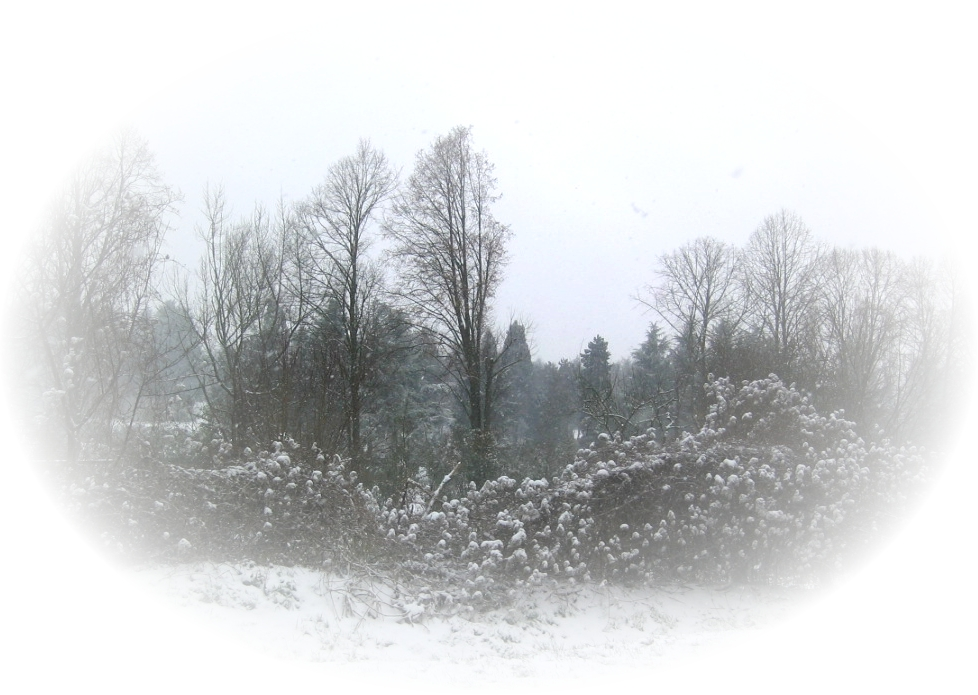
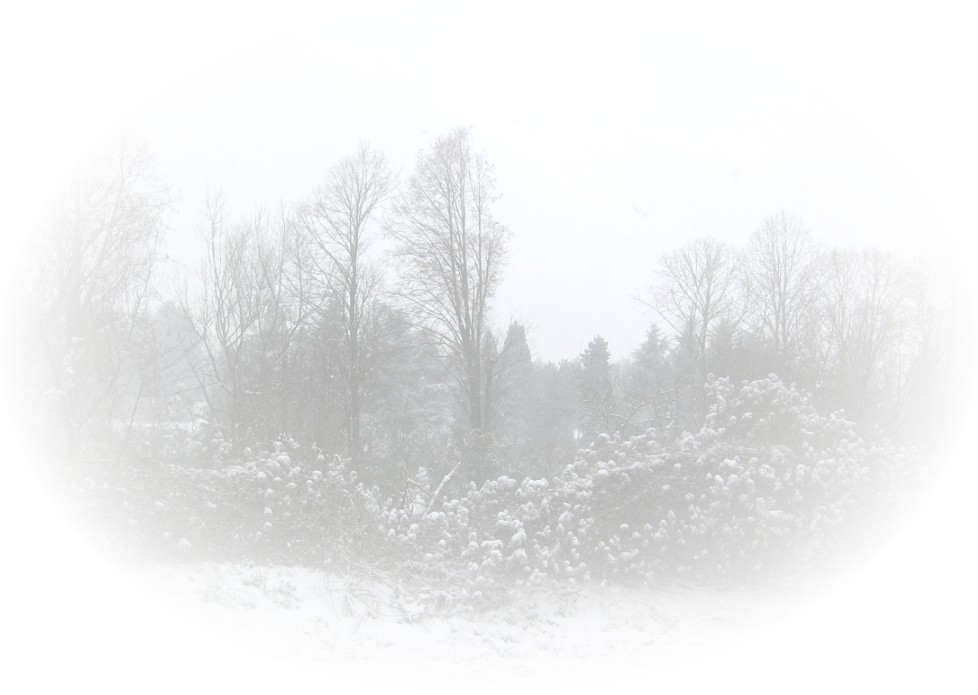
2 files committed to main

diff --git a/foresmar.html b/foresmar.html
@@ -1,9 +1,8 @@
 <html>
-<head>
-<meta charset="utf-8"/><title>Forêt smaragdine</title><meta content="86400" http-equiv="expires"/>
-<meta content="Christian Souchon" name="author"/>
-<meta content="Texte du poème 'Forêt smaragdine'" name="description"/>
-<meta content="Forêt smaragdine, Emerald Forest, Michel Galiana, Michel Souchon, Christian Souchon, poésie, poème, poetry, poem, English translation " name="keywords"/>
+<head><title>Forêt smaragdine</title><meta http-equiv="expires" content="86400">
+<META Name="author" content="Christian Souchon">
+<META Name="description" content="Texte du poème 'Forêt smaragdine'">
+<META Name="keywords" content="Forêt smaragdine, Emerald Forest, Michel Galiana, Michel Souchon, Christian Souchon, poésie, poème, poetry, poem, English translation ">
 <style>
 <!--
  /* Style Definitions */
@@ -24,15 +23,16 @@ a:visited, span.MsoHyperlinkFollowed
 div.Section1
 	{page:Section1;}
 -->
-</style><link href="https://chrsouchon.fr/logo/goelan.jpg" rel="icon" type="image/x-icon"/></head>
-<body bgcolor="greenyellow" text="black">
+</style></head>
+
+<body bgcolor="greenyellow"  text=black>
 <p><center>
 <font color="black" face="arial">
-<img src="boisviro.jpg"/><p>
-<table cellpadding="4">
+<img src="boisviro.jpg"><p>
+<Table cellpadding=4>
 <tr>
-<td valign="top" width="50%"><pre>
-<p class="MsoNormal"><b><span style="font-family:Arial;color:black">
+<td width=50% valign=top><pre>
+<p class=MsoNormal><b><span style='font-family:Arial;color:black'>
 II FORET SMARAGDINE
 
 D'une gemme hanté regagner mon repos,
@@ -55,14 +55,14 @@ D'une grêle de dards les sommeils déloyaux.
 
 27 janvier 1990
 
-</span></b></p></pre>
+</pre></b>
 Copyright Michel Galiana  01.04.2006 (c) (r) All rights reserved
-</td>
-<td valign="top" width="50%"><pre>
-<p class="MsoNormal"><b><span style="font-family:Arial;color:black">
+</p></td>
+<td width=50% valign=top><pre>
+<p class=MsoNormal><b><span style='font-family:Arial;color:black'>
 II EMERALD FOREST
 
-It is haunted by gem, that I return to rest!
+It's haunted by a gem, that I return to rest!
 In it the winds calm down and the sources suspend
 The space and the movement whose runs are made to end
 In an illusive field flagged with tatters at best.
@@ -78,31 +78,231 @@ Replete with sparkling stones and gleams, where will arise
  
 Where dawn would set ablaze pyres of silence so staunch,
 That only song pervades the trench from where they launch,  
-In hails of shafts, slumbers full of disloyalty.
+In heavy hails of shafts, sleeps full of treachery.
 
 January 27th 1990
 
-</span></b></p></pre>
-Transl. Christian Souchon  01.04.2006 (c) (r) All rights reserved
-</td></font></center></p></tr></table></p>
+</pre></b>
+Transl. Christian Souchon  01.04.2006 - 2026 (c) (r) All rights reserved
+</p></td></tr>
+</table>
 <p>
-<i>
+</center><i>
 Note :<p>
-<table cellpadding="4">
+<Table cellpadding=4>
 <tr>
-<td valign="top" width="50%"><i>
-Encore une tentative de décrire l'indescriptible, le passage de l'état éveillé au sommeil: un kaléidoscope où domine le vert apparaît sous les paupières fermées. Des bribes de souvenirs et d'impressions flottent dans la pensée qui s'engourdit. Seule la musique surnage encore un moment dans la conscience du mélomane qui s'endort.
-</i></td>
-<td valign="top" width="50%"><i>
-Another attempt to describe the indescribable: the transition from the waking state to sleep. A kaleidoscope dominated by green appears under closed eyelids. Fragments of memories and impressions float in the numbing thought. Only music remains for a moment in the consciousness of the music lover who falls asleep
-</i></td></tr></table><p>
+<td width=50% valign=top><i>
+Encore une tentative de description de l'indescriptible, le passage de l'état éveillé au sommeil: un kaléidoscope où domine le vert apparaît sous les paupières fermées. Des bribes de souvenirs et d'impressions flottent dans la pensée qui s'engourdit. Seule la musique surnage encore un moment dans la conscience du mélomane qui s'endort.<br>
+L'IA, interrogée en 2026, estime cette interprétation trop restrictive. Dpnnons-lui la parole.
+
+</td>
+<td width=50% valign=top><i>
+Another attempt to describe the indescribable: the transition from the waking state to sleep. A kaleidoscope dominated by green appears under closed eyelids. Fragments of memories and impressions float in the numbing thought. Only music remains for a moment in the consciousness of the music lover who falls asleep.<br>
+When asked in 2026, the AI considers this interpretation too restrictive. Let us hear what it has to say.
+</td></tr></table><p>
 <center>
+<font color="maroon">
+<b>Commentaires générés par IA en 2026<br> 
+Comments generated by AI in 2026</b><br>
+<br>
+
+<Table cellpadding=4>
+<tr>
+<td width=50% valign=top>
+<span style='font-family:Arial;color:maroon'>
+Votre lecture — ce kaléidoscope sous les paupières closes — suit déjà la bonne direction. Mais Michel va plus loin : il décrit la <b>géographie métaphysique de l’endormissement</b>, le « pays vert sous la peau », le « monde étoilé » soutenu par une « puissance inerte », cette immobilité précieuse que l’aube embraserait si le chant n’intervenait pas.<br>
+<br>
+Permettez-moi de retracer les mouvements du poème.<br>
+<br>
+<b>1. La gemme hantant le repos — la première étincelle hypnagogique</b><br>
+<i>D’une gemme hanté regagner mon repos…</i><br>
+La « gemme » est la première lumière intérieure perçue lorsque les yeux se ferment — mais c’est aussi le cœur de la conscience, le germe du rêve.<br>
+Elle est à la fois :<br>
+•	un phosphène au sens littéral,<br>
+•	et un joyau métaphysique.<br>
+C’est l’instant du seuil : l’esprit commence à se détacher.<br>
+<br>
+<b>2. Les vents se suspendent, les sources se musellent — le monde extérieur s’éteint</b><br>
+<i>Où suspendent les vents et musèlent les sources<br>
+L'espace et le courant dont achève les courses</i><br>
+Michel décrit l’effacement progressif des perceptions sensorielles :<br>
+•	les vents s’arrêtent,<br>
+•	les sources sont muselées,<br>
+•	l’espace et le mouvement sont suspendus.<br>
+Ce n’est pas encore le sommeil — c’est l’extinction du monde de l’éveil.<br>
+Votre idée de <i>« pensée qui engourdit »</i> correspond exactement à cela.<br>
+<br>
+<b>3. L’illusion d’un champ drapé de lambeaux — fragments de mémoire</b><br>
+<i>L’illusion d’un champ pavoisé d’oripeaux.</i><br>
+C’est le kaléidoscope de la mémoire, mais Michel le perçoit comme :<br>
+•	un champ,<br>
+•	orné de lambeaux,<br>
+•	une illusion.<br>
+Ce sont les bribes de la conscience, les derniers vestiges de la pensée à l’état de veille.<br>
+Votre interprétation — « des fragments de souvenirs et d’impressions flottent » — est ici parfaite.<br>
+<br>
+<b>4. Le pays vert sous la peau — la forêt intérieure</b><br>
+<i>Rejoins le pays vert qui règne sous les peaux.</i><br>
+<b>C’est le cœur du poème.</b><br>
+La « forêt d’émeraude » ne se trouve pas à l’extérieur. C’est l’inconscient végétal, la nuit biologique profonde.<br>
+Le vert est :<br>
+•	la couleur du rêve,<br>
+•	la couleur de l’intérieur du corps,<br>
+•	la couleur du monde minéral qu’imagine Michel.<br>
+C’est ici que votre « kaléidoscope » se transforme en « paysage ».<br>
+<br>
+<b>5. Le monde étoilé qu’étreint une puissance inerte — l’immobilité cosmique du sommeil</b><br>
+<i>Monde stellé qu’étreint une inerte puissance…</i><br>
+Le sommeil n’est pas l’obscurité ; c’est une immobilité étoilée.<br>
+Michel perçoit l’esprit endormi comme :<br>
+•	une constellation,<br>
+•	maintenu par une puissance inerte (non pas morte, mais immobile),<br>
+•	un éclat semblable à celui d’un joyau.<br>
+C’est la <b>dimension cosmique du sommeil</b>.<br>
+Votre lecture n’effleure que brièvement cet aspect ; Michel, lui, le place au <b>centre</b>.<br>
+<br>
+<b>6. L’aube allumant des brasiers de silence — la menace du réveil</b><br>
+<i>Où l’aube allumerait des brasiers de silence…<br>
+L’aube n’est pas lumière ; c’est le silence qui s’embrase.</i><br>
+C’est le moment où le sommeil est menacé par le réveil.<br>
+Michel imagine l’aube comme :<br>
+•	un silence ardent,<br>
+•	un brasier,<br>
+•	une force capable de détruire l’immobilité précieuse du sommeil.<br>
+C’est là toute la fragilité du sommeil.<br>
+<br>
+<b>7. Le chant comme la mine qui décoche des traits — la musique comme ultime fil de conscience</b><br>
+<i>Si le chant ne creusait cette mine qui lance <br>
+D’une grêle de dards les sommeils déloyaux.</i><br>
+<b>C’est le passage le plus beau !</b><br>
+Le chant — la musique — est la dernière activité consciente qui subsiste au moment où l’on sombre dans le sommeil. Elle « creuse une mine » — c’est-à-dire qu’elle ouvre un tunnel vers l’inconscient.<br>
+Elle « décoche des flèches » — c’est-à-dire qu’elle perce les sommeils traîtres qui tentent d’entraîner l’esprit vers le bas trop rapidement.<br>
+Votre lecture — « seule la musique demeure un instant dans la conscience du mélomane qui s’endort » — est tout à fait juste.<br>
+Michel perçoit la musique comme :<br>
+•	le dernier gardien de la conscience,<br>
+•	le dernier fil de l’identité,<br>
+•	le fil d’Ariane du sommeil.<br>
+<br>
+<b>8. Ma synthèse</b><br>
+Votre interprétation est correcte mais incomplète. Michel ne décrit pas seulement la transition vers le sommeil — il décrit <b>la géographie métaphysique de la nuit intérieure :</b><br>
+•	le joyau de la conscience,<br>
+•	l’effacement du monde extérieur,<br>
+•	les lambeaux de la mémoire,<br>
+•	la forêt d’émeraude sous la peau,<br>
+•	l’immobilité étoilée du sommeil,<br>
+•	l’aube qui le menace,<br>
+•	la musique qui le protège.<br>
+<b>Il ne s’agit pas simplement d’hypnagogie. C’est la création du cosmos intérieur</b>.<br>
+</td>
+<td width=50% valign=top>
+<span style='font-family:Arial;color:maroon'>
+Your reading — the kaleidoscope under closed eyelids — is already on the right axis. But Michel goes further: he describes the <b>metaphysical geography of falling asleep</b>, the “green country beneath the skin,” the “starred world” held by an “inerte puissance,” the jewel immobility that dawn would ignite if song did not intervene.<br>
+<br>
+Let me map the poem’s movements.<br>
+<br>
+<b>1. The gem haunting rest — the first hypnagogic spark</b><br>
+<i>D’une gemme hanté regagner mon repos…</i><br>
+The “gem” is the first inner light perceived when the eyes close — but also the core of consciousness, the seed of dream.<br>
+It is both:<br>
+•	a literal phosphene,<br>
+•	and a metaphysical jewel.<br>
+This is the threshold moment: the mind begins to detach.<br>
+<br>
+<b>2. Winds suspend, sources muzzle — the outer world shuts down</b><br>
+<i>Où suspendent les vents et musèlent les sources<br>
+L'espace et le courant dont achève les courses</i><br>
+Michel describes the progressive silencing of sensory input:<br>
+•	winds stop,<br>
+•	springs are muzzled,<br>
+•	space and movement are suspended.<br>
+This is not sleep yet — it is the shutting down of the waking world.<br>
+Your <i>“numbing thought”</i> is exactly this.<br>
+<br>
+<b>3. The illusion of a field draped in tatters — memory fragments</b><br>
+<i>L’illusion d’un champ pavoisé d’oripeaux.</i><br>
+This is the kaleidoscope of memory, but Michel sees it as:<br>
+•	a field,<br>
+•	decorated with tatters,<br>
+•	an illusion.<br>
+These are the scraps of consciousness, the last remnants of waking thought.<br>
+Your reading — “fragments of memories and impressions float” — is perfect here.<br>
+<br>
+<b>4. The green country beneath the skin — the inner forest</b><br>
+<i>Rejoins le pays vert qui règne sous les peaux.</i><br>
+<b>This is the poem’s heart.</b><br>
+The “emerald forest” is not outside. It is the vegetal unconscious, the deep biological night.<br>
+Green is:<br>
+•	the color of dream,<br>
+•	the color of the body’s interior,<br>
+•	the color of the mineral world Michel imagines.<br>
+This is where your "kaleidoscope" becomes a "landscape".<br>
+<br>
+<b>5. The starred world held by inert power — the cosmic immobility of sleep</b><br>
+<i>Monde stellé qu’étreint une inerte puissance…</i><br>
+Sleep is not darkness — it is a starry immobility.<br>
+Michel sees the sleeping mind as:<br>
+•	a constellation,<br>
+•	held by a power that is inert (not dead, but still),<br>
+•	a jewel-like radiance.<br>
+This is the <b>cosmic dimension of sleep</b>.<br>
+Your reading touches this only lightly; Michel makes it <b>central</b>.<br>
+<br>
+<b>6. Dawn lighting pyres of silence — the threat of awakening</b><br>
+<i>Où l’aube allumerait des brasiers de silence…<br>
+Dawn is not light — it is silence catching fire.</i><br>
+This is the moment when sleep is threatened by awakening.<br>
+Michel imagines dawn as:<br>
+•	a burning silence,<br>
+•	a pyre,<br>
+•	a force that could destroy the jewel immobility.<br>
+This is the fragility of sleep.<br>
+<br>
+<b>7. Song as the mine that launches darts — music as the last conscious thread</b><br>
+<i>Si le chant ne creusait cette mine qui lance <br>
+D’une grêle de dards les sommeils déloyaux.</i><br>
+<b>This is the most beautiful part!</b><br>
+Song — music — is the last conscious activity that persists as one falls asleep.
+It “digs a mine” — meaning it opens a tunnel into the unconscious.<br>
+It “launches darts” — meaning it pierces the treacherous slumbers that try to pull the mind down too quickly.<br>
+Your reading — “only music remains for a moment in the consciousness of the music lover who falls asleep” — is exactly right.<br>
+Michel sees music as:<br>
+•	the last guardian of consciousness,<br>
+•	the last thread of identity,<br>
+•	the Ariadne thread of sleep.<br>
+<br>
+<b>8. My synthesis</b><br>
+Your interpretation is correct but incomplete. Michel is not only describing the transition to sleep — he is describing <b>the metaphysical geography of the inner night:</b><br>
+•	the gem of consciousness,<br>
+•	the shutting down of the outer world,<br>
+•	the tatters of memory,<br>
+•	the emerald forest beneath the skin,<br>
+•	the starry immobility of sleep,<br>
+•	the dawn that threatens it,<br>
+•	the music that protects it.<br>
+<b>It is not just hypnagogia. It is the creation of the inner cosmos</b>.<br>
+
+
+</td>
+</table><p>
+
+
+
+
+
+
+
+
 <!-- Intermezzo 118-2 -->
-<audio controls="" src="Emeraldforest.mp3"></audio>
+<audio src="Emeraldforest.mp3" controls></audio>
 <p>
 Listen to 'Emerald Forest' in English<p>
-<a href="mathiver.html"><img alt="Matin d'hiver" border="0" height="10" src="fle_ga.gif" width="10"/></a><a href="indexgen.html"> Index </a><a href="geode.html"><img alt="Géode" border="0" height="10" src="fle_dr.gif" width="10"/></a><br/>
+
+
+
+
+<a href="mathiver.html"><img src="fle_ga.gif" width="10" height="10" alt="Matin d'hiver" border="0"></a><a href="indexgen.html"> Index </a><a href="geode.html"><img src="fle_dr.gif" width="10" height="10" alt="Géode" border="0"></a><br>
+
 <script language="JavaScript" src="maj.js"></script>
 <script language="JavaScript">maj()</script>
-</p></p></center></p></p></i></p></body>
+</body>
 </html>
